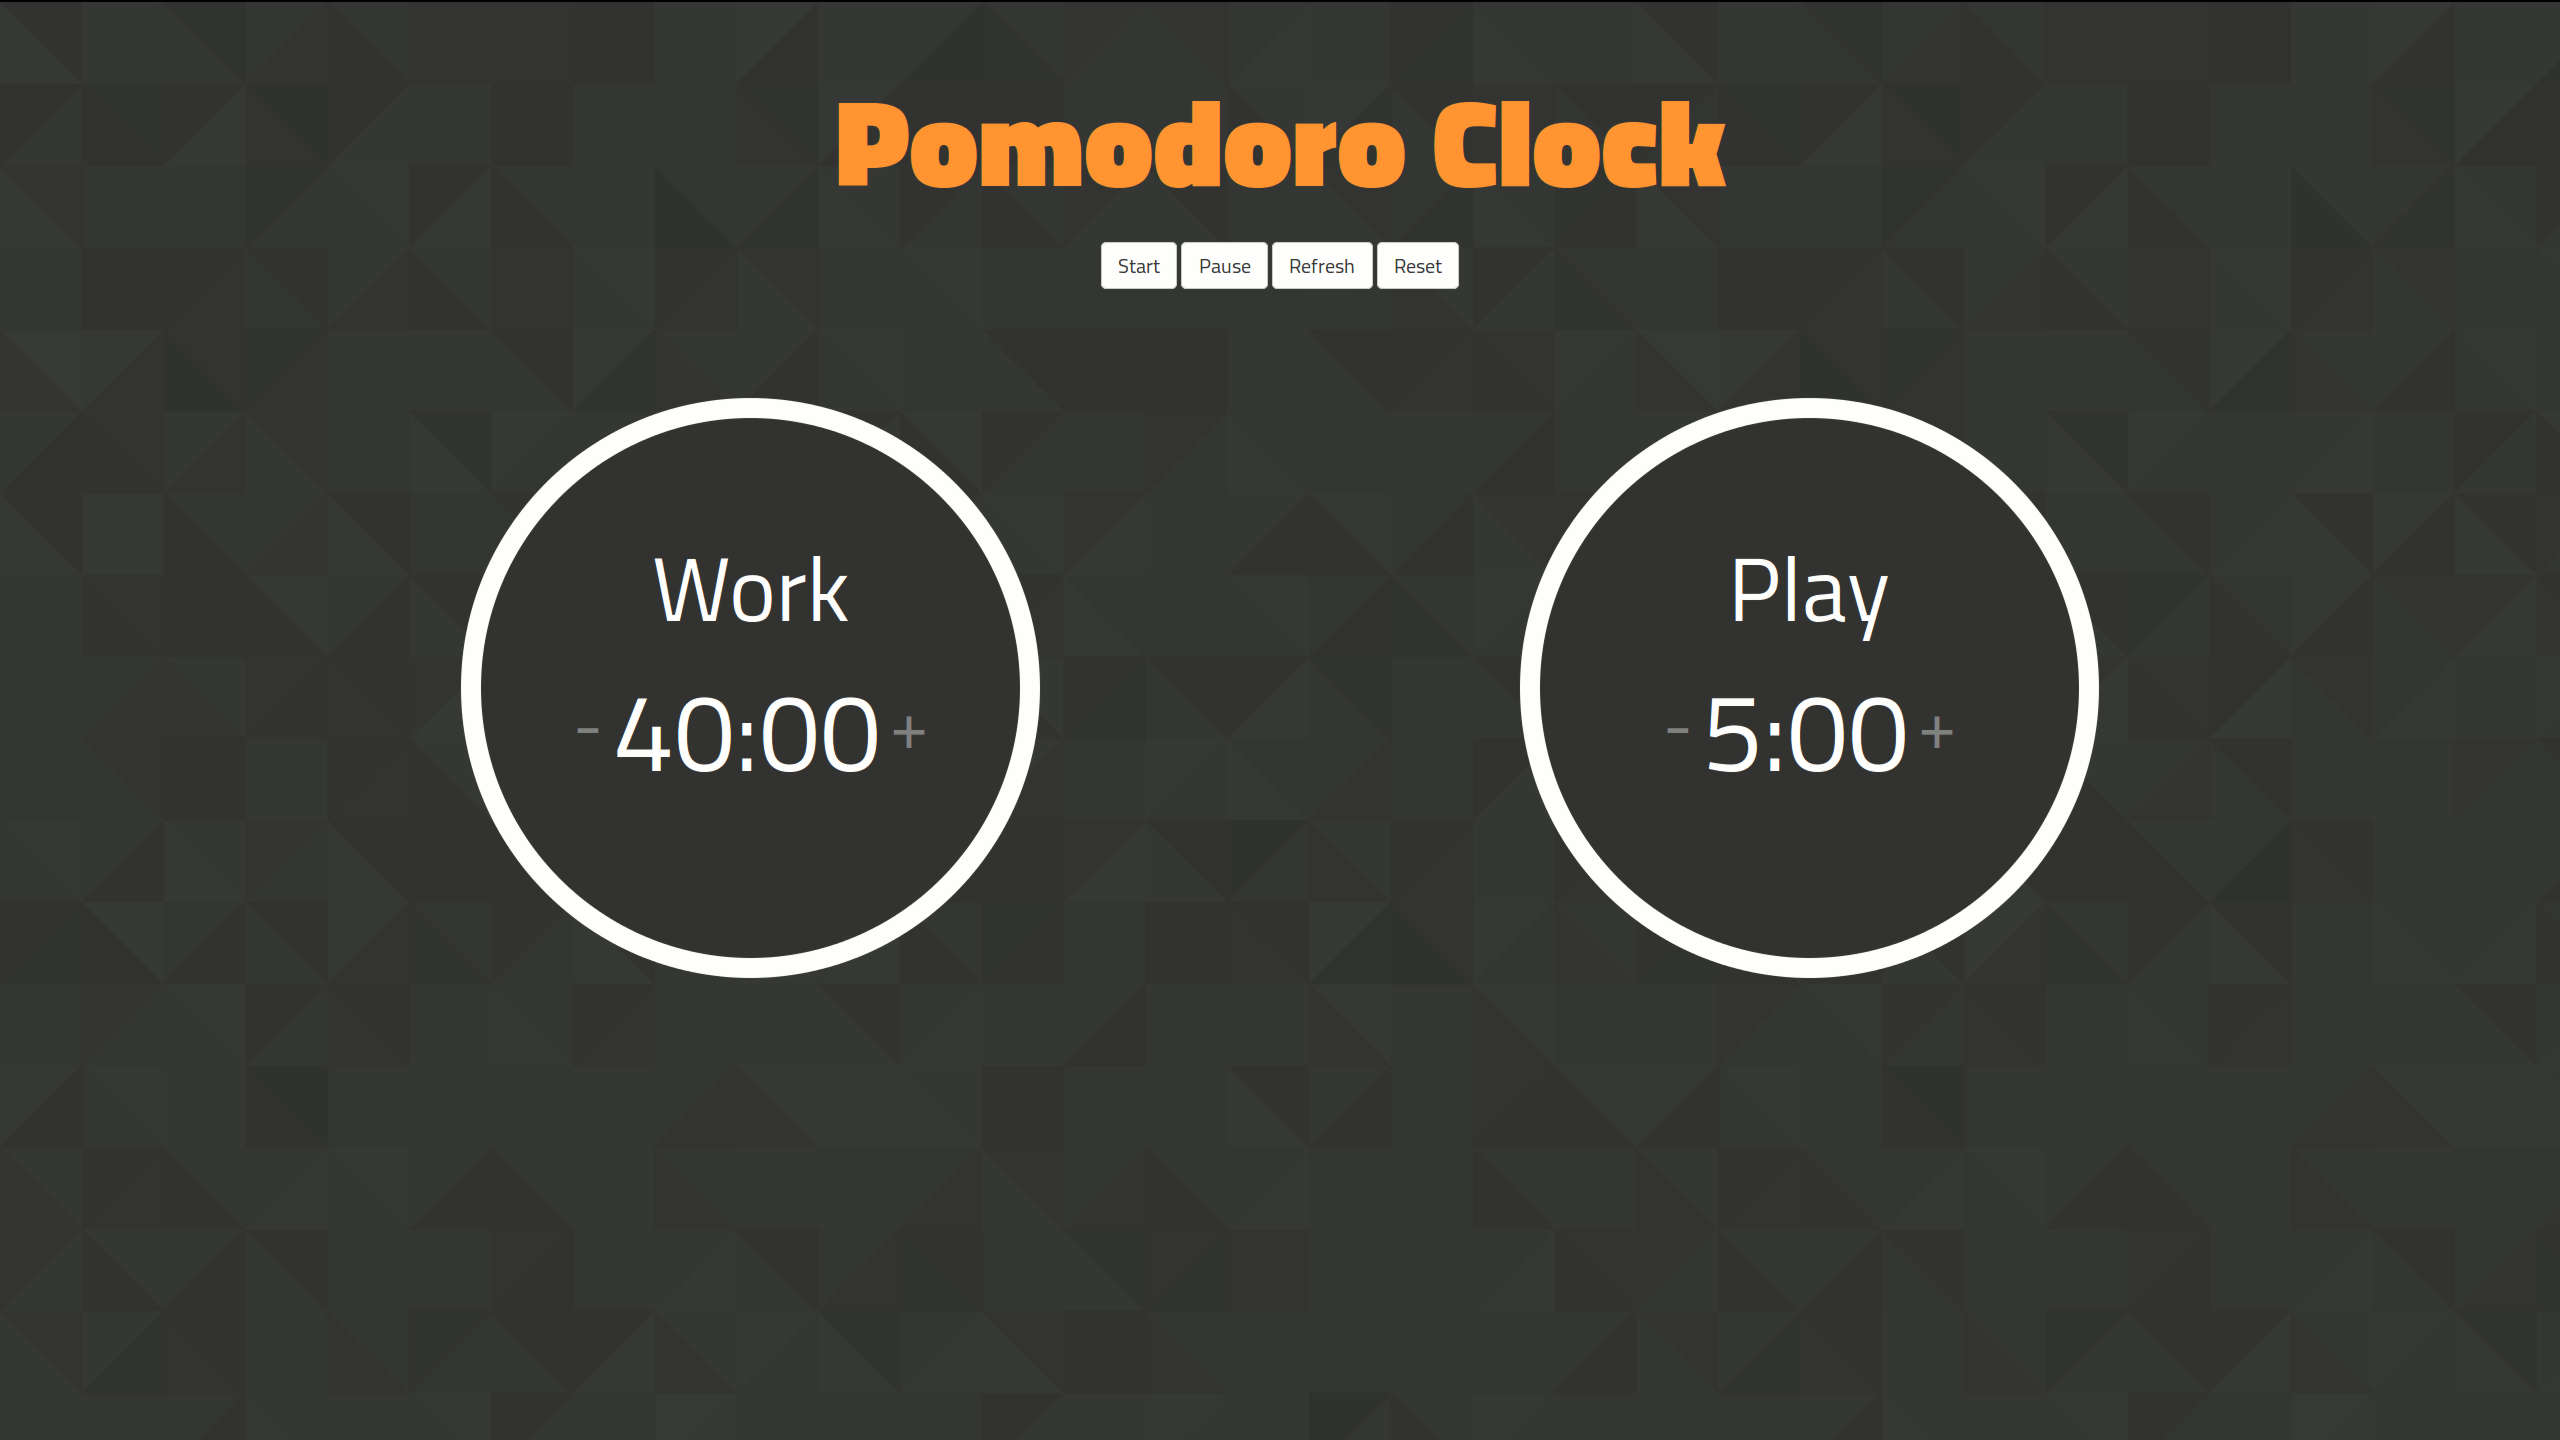
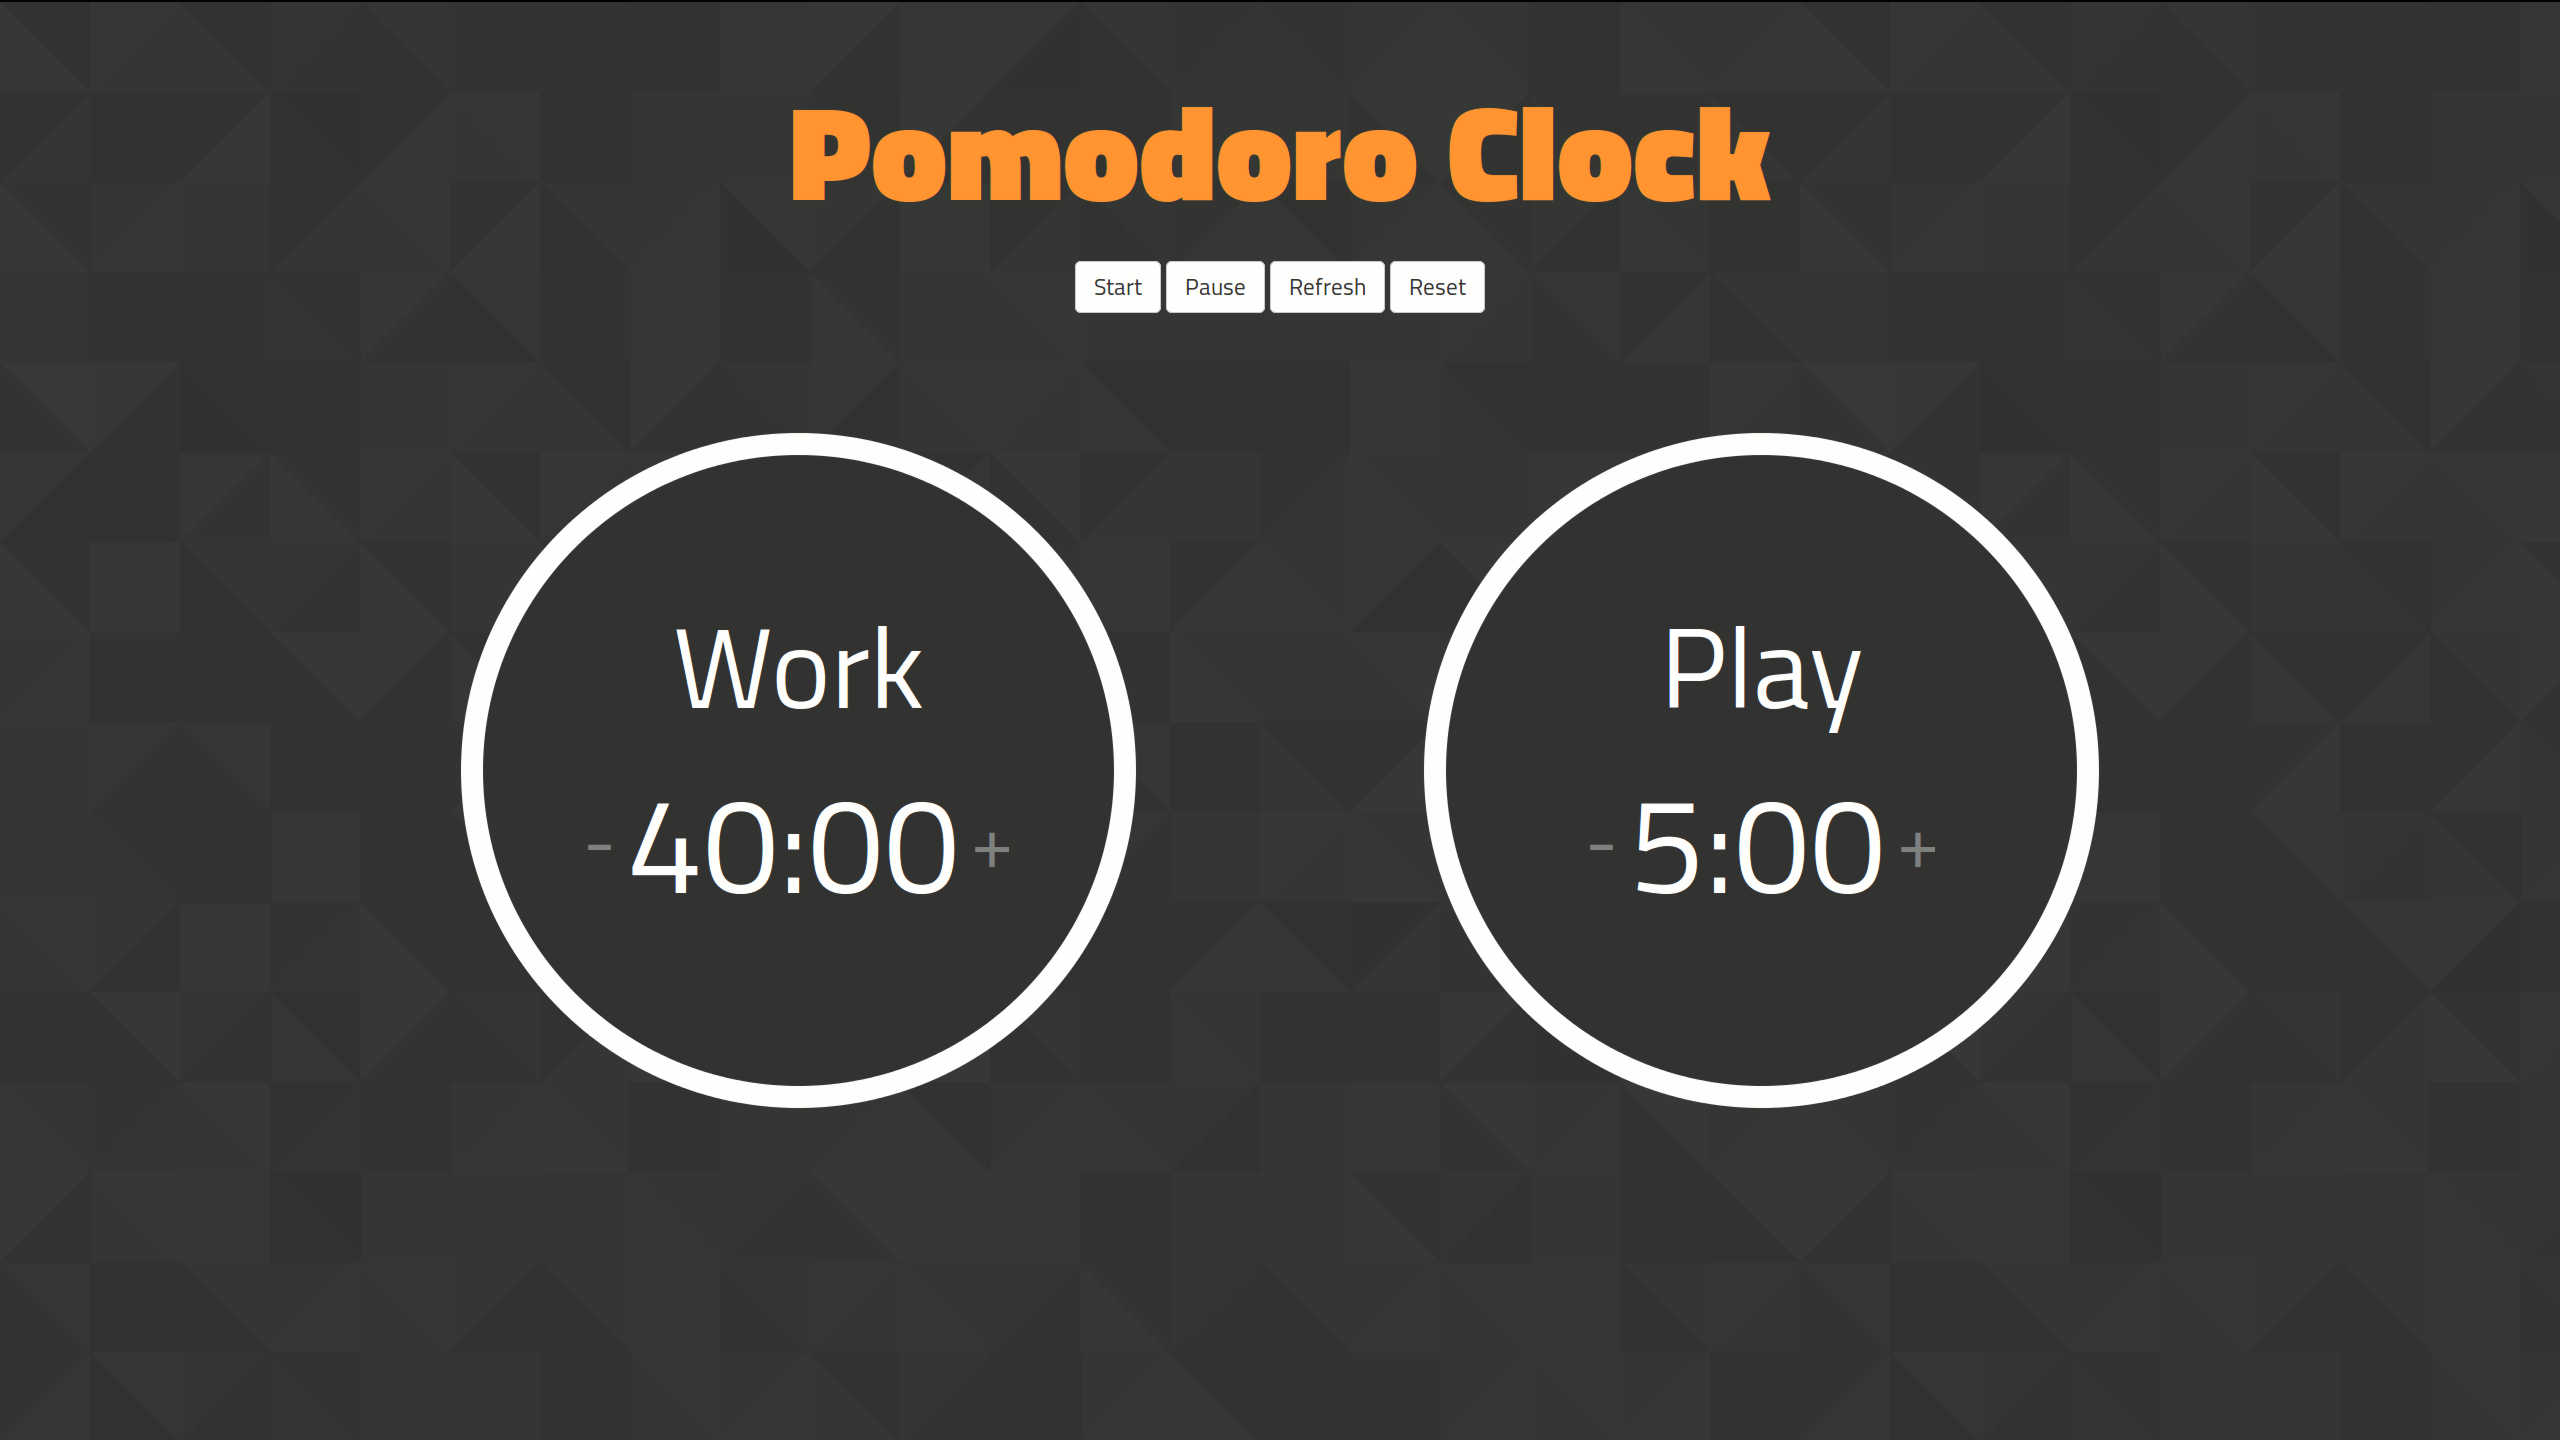
Media query tweaks to site 0009

diff --git a/xy/sites/0009-build-a-pomodoro-clock/css/style.min.css b/xy/sites/0009-build-a-pomodoro-clock/css/style.min.css
@@ -1,1 +1,1 @@
[2 lines of base64/hex data omitted]

diff --git a/xy/sites/0009-build-a-pomodoro-clock/css/style.css b/xy/sites/0009-build-a-pomodoro-clock/css/style.css
@@ -103,7 +103,7 @@ body {
   }
   .adjust {
     font-size: 20px;
-    margin: 0 -8% 0 -8%;
+    margin: 0 -6% 0 -6%;
     top: -2%;
   }
   .time {
@@ -131,12 +131,11 @@ body {
     font-size: 9px;
   }
   .spend {
-    font-size: 30px;
-    margin: -5% 0 0 0;
+    font-size: 20px;
+    margin: -12% 0 0 0;
   }
   .adjust {
     font-size: 25px;
-    margin: 0 -6% 0 -6%;
     top: -2%;
   }
   .time {
@@ -160,7 +159,12 @@ body {
   .title {
     font-size: 38px;
   }
+  .spend {
+    font-size: 25px;
+    margin: 0 0 0 0;
+  }
   .adjust {
+    margin: 0 -4% 0 -4%;
     top: -4%;
   }
   .dial {
@@ -216,89 +220,100 @@ body {
   }
 }
 
-@media only screen and (min-width: 800px) {
-  .title {
-    font-size: 55px;
-  }
-  .spend {
-    font-size: 55px;
-    margin: 2% 0 0 0;
-  }
-  .adjust {
-    font-size: 45px;
-    margin: 0 -2% 0 -2%;
-  }
-  .dial {
-    border: solid white 15px;
-    height: 350px;
-    width: 350px;
+@media screen and (min-width: 800px) {
+  @media screen and (min-height: 600px) {
+    .title {
+      font-size: 55px;
+    }
+    .spend {
+      font-size: 55px;
+      margin: 2% 0 0 0;
+    }
+    .adjust {
+      font-size: 45px;
+      margin: 0 -2% 0 -2%;
+    }
+    .dial {
+      border: solid white 15px;
+      height: 350px;
+      width: 350px;
+    }
   }
 }
 
 @media only screen and (min-width: 980px) {
-  .title {
-    font-size: 65px;
-  }
-  .adjust {
-    top: -4%;
-  }
-  .play {
-    margin-right: 10%;
-  }
-  .work {
-    margin-left: 10%;
-  }
-}
-
-@media only screen and (min-width: 1080px) {
-  .title {
-    font-size: 90px;
-  }
-  .btn-default {
-    font-size: 15px;
-  }
-  .spend {
-    font-size: 65px;
-    margin: 5% 0 0 0;
-  }
-  .adjust {
-    font-size: 50px;
-    margin: 0 -1% 0 -1%;
-  }
-  .time {
-    font-size: 80px;
-  }
-  .dial {
-    height: 400px;
-    top: 60px;
-    width: 400px;
-  }
-  .play {
-    margin-right: 13%;
-  }
-  .work {
-    margin-left: 13%;
+  @media screen and (min-height: 600px) {
+    .title {
+      font-size: 65px;
+    }
+    .adjust {
+      top: -4%;
+    }
+    .play {
+      margin-right: 10%;
+    }
+    .work {
+      margin-left: 10%;
+    }
   }
 }
 
-@media only screen and (min-width: 1280px) {
-  .dial {
-    height: 425px;
-    width: 425px;
+@media screen and (min-height: 720px) {
+  @media only screen and (min-width: 1080px) {
+    .title {
+      font-size: 90px;
+    }
+    .btn-default {
+      font-size: 15px;
+    }
+    .spend {
+      font-size: 65px;
+      margin: 5% 0 0 0;
+    }
+    .adjust {
+      font-size: 50px;
+      margin: 0 -1% 0 -1%;
+    }
+    .time {
+      font-size: 80px;
+    }
+    .dial {
+      height: 400px;
+      top: 60px;
+      width: 400px;
+    }
+    .play {
+      margin-right: 13%;
+    }
+    .work {
+      margin-left: 13%;
+    }
   }
-  .play {
-    margin-right: 18%;
+  @media only screen and (min-width: 1280px) {
+    .spend {
+      font-size: 75px;
+      margin: 7% 0 0 0;
+    }
+    .dial {
+      height: 450px;
+      width: 450px;
+    }
+    .time {
+      font-size: 90px;
+    }
+    .play {
+      margin-right: 18%;
+    }
+    .work {
+      margin-left: 18%;
+    }
   }
-  .work {
-    margin-left: 18%;
-  }
-}
-
-@media only screen and (min-width: 1920px) {
-  .play {
-    margin-right: 25%;
-  }
-  .work {
-    margin-left: 25%;
+  @media only screen and (min-width: 1920px) {
+    .play {
+      margin-right: 25%;
+    }
+    .work {
+      margin-left: 25%;
+    }
   }
 }
